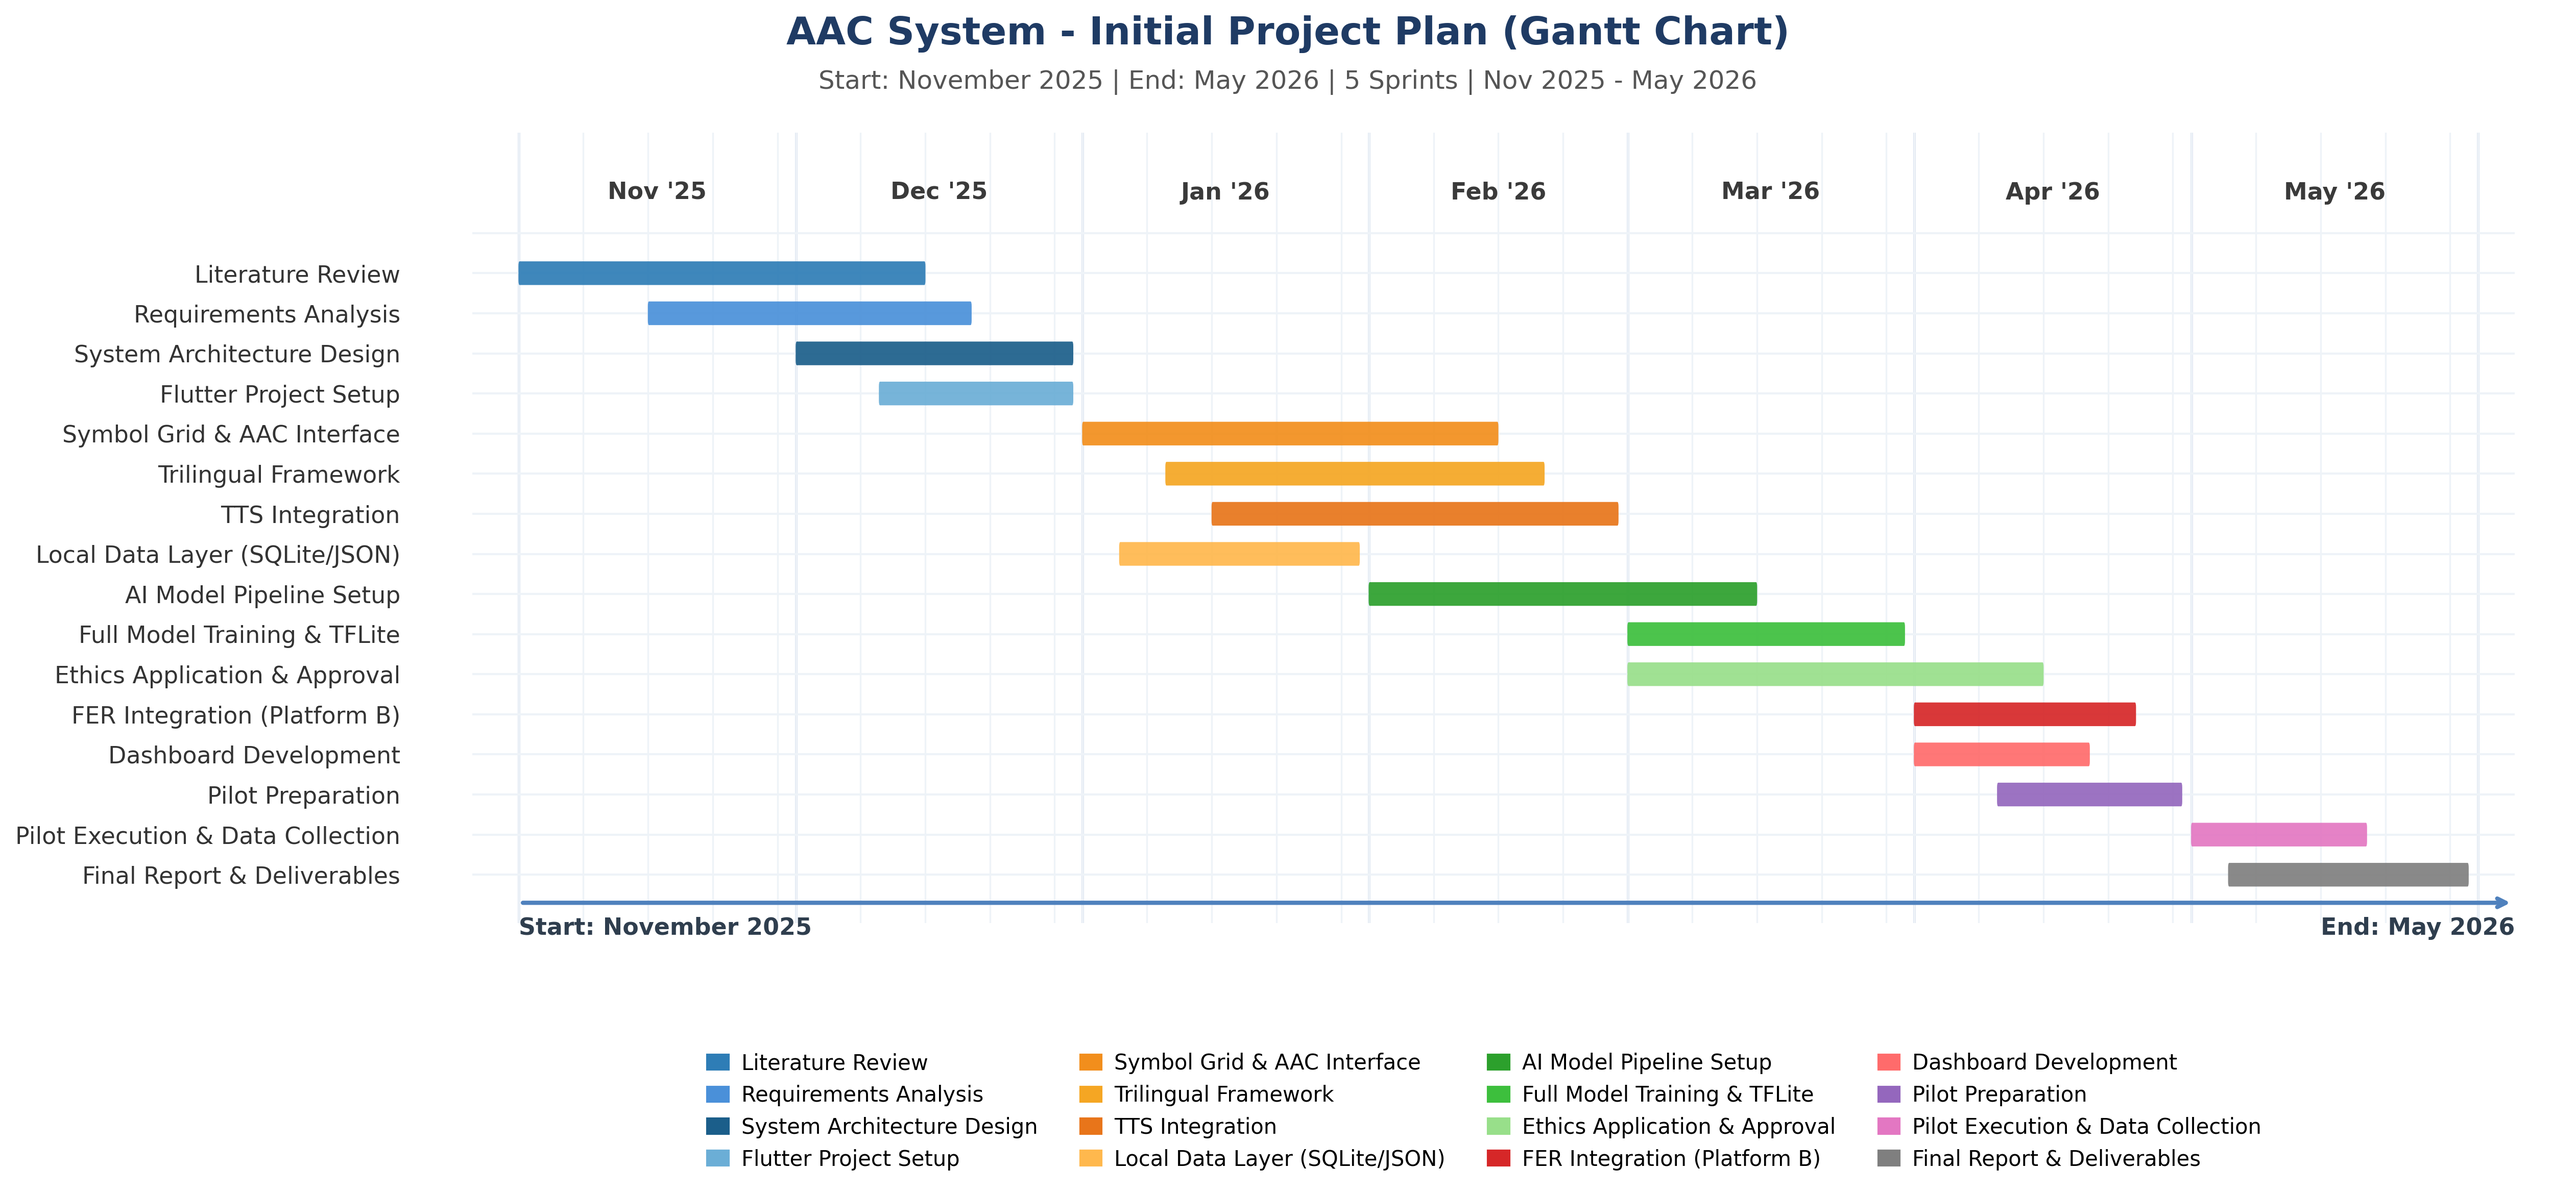
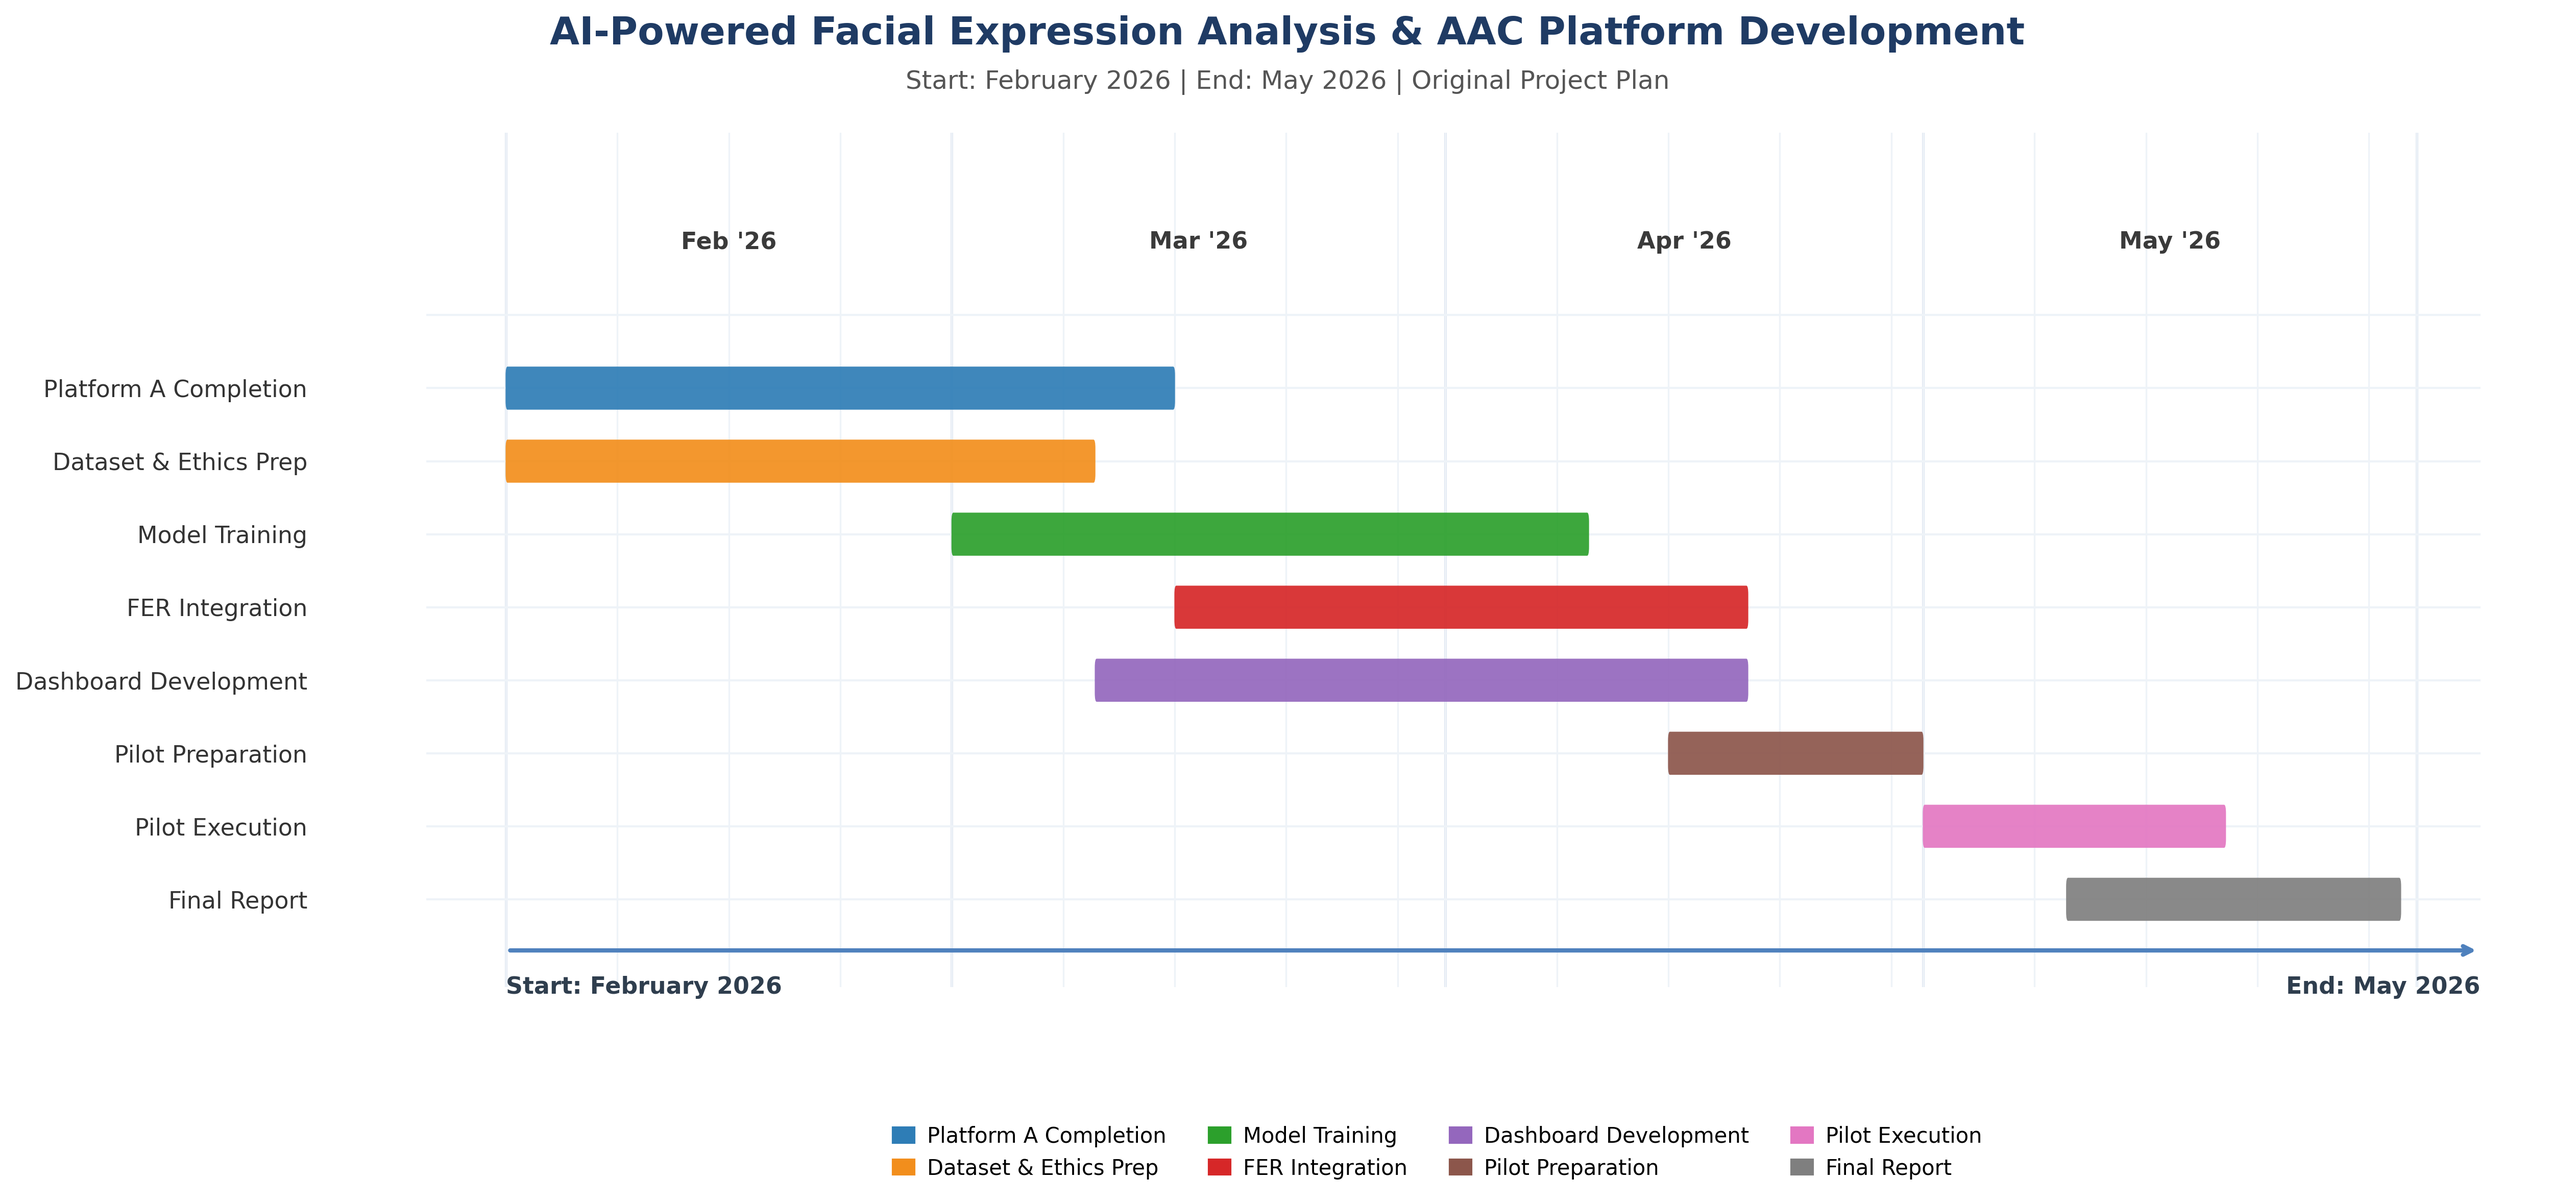
chart pngs completed

diff --git a/Esoft/gannt chart generator/ganntchartgen.py b/Esoft/gannt chart generator/ganntchartgen.py
@@ -117,28 +117,20 @@ def create_gantt(tasks_data, title, subtitle_extra, output_name, today_line=None
 # (Original plan from project proposal)
 # ═══════════════════════════════════════════
 initial_tasks = [
-    ("Literature Review",                "2025-11-01", "2025-12-15", "#2E7DB6"),
-    ("Requirements Analysis",            "2025-11-15", "2025-12-20", "#4A90D9"),
-    ("System Architecture Design",       "2025-12-01", "2025-12-31", "#1B5E8A"),
-    ("Flutter Project Setup",            "2025-12-10", "2025-12-31", "#6BAED6"),
-    ("Symbol Grid & AAC Interface",      "2026-01-01", "2026-02-15", "#F28E1C"),
-    ("Trilingual Framework",             "2026-01-10", "2026-02-20", "#F5A623"),
-    ("TTS Integration",                  "2026-01-15", "2026-02-28", "#E8751A"),
-    ("Local Data Layer (SQLite/JSON)",   "2026-01-05", "2026-01-31", "#FFB84D"),
-    ("AI Model Pipeline Setup",          "2026-02-01", "2026-03-15", "#2CA02C"),
-    ("Full Model Training & TFLite",     "2026-03-01", "2026-03-31", "#3DBF3D"),
-    ("Ethics Application & Approval",    "2026-03-01", "2026-04-15", "#98DF8A"),
-    ("FER Integration (Platform B)",     "2026-04-01", "2026-04-25", "#D62728"),
-    ("Dashboard Development",            "2026-04-01", "2026-04-20", "#FF6B6B"),
-    ("Pilot Preparation",                "2026-04-10", "2026-04-30", "#9467BD"),
-    ("Pilot Execution & Data Collection","2026-05-01", "2026-05-20", "#E377C2"),
-    ("Final Report & Deliverables",      "2026-05-05", "2026-05-31", "#7F7F7F"),
+    ("Platform A Completion",  "2026-02-01", "2026-03-15", "#2E7DB6"),
+    ("Dataset & Ethics Prep",  "2026-02-01", "2026-03-10", "#F28E1C"),
+    ("Model Training",         "2026-03-01", "2026-04-10", "#2CA02C"),
+    ("FER Integration",        "2026-03-15", "2026-04-20", "#D62728"),
+    ("Dashboard Development",  "2026-03-10", "2026-04-20", "#9467BD"),
+    ("Pilot Preparation",      "2026-04-15", "2026-05-01", "#8C564B"),
+    ("Pilot Execution",        "2026-05-01", "2026-05-20", "#E377C2"),
+    ("Final Report",           "2026-05-10", "2026-05-31", "#7F7F7F"),
 ]
 
 create_gantt(
     initial_tasks,
-    "AAC System - Initial Project Plan (Gantt Chart)",
-    "5 Sprints | Nov 2025 - May 2026",
+    "AI-Powered Facial Expression Analysis & AAC Platform Development",
+    "Original Project Plan",
     "gantt_initial.png"
 )
 
@@ -148,19 +140,19 @@ create_gantt(
 # (Revised plan with parallel scheduling)
 # ═══════════════════════════════════════════
 updated_tasks = [
-    ("Literature Review [Done]",              "2025-11-01", "2025-12-15", "#93C5E6"),
-    ("Requirements & Architecture [Done]",    "2025-11-15", "2025-12-31", "#93C5E6"),
-    ("Flutter Setup & Design Artefacts [Done]","2025-12-10", "2025-12-31", "#93C5E6"),
-    ("Symbol Grid & AAC Interface [Done]",    "2026-01-01", "2026-02-10", "#FFD699"),
-    ("TTS & Trilingual Framework [In Prog]",  "2026-01-10", "2026-03-31", "#FFF2CC"),
-    ("Local Data Layer [Done]",               "2026-01-05", "2026-01-25", "#FFD699"),
-    ("AI Pipeline & Preliminary Training [Done]","2026-01-15", "2026-02-28", "#B8E6B8"),
-    ("Karapitiya Field Exposure [Done]",      "2026-02-01", "2026-02-10", "#FFD699"),
-    ("Symbol Set Finalisation [In Prog]",     "2026-03-01", "2026-03-31", "#F28E1C"),
+    ("Literature Review [Done]",              "2025-11-01", "2025-12-15", "#2E7DB6"),
+    ("Requirements & Architecture [Done]",    "2025-11-15", "2025-12-31", "#2E7DB6"),
+    ("Flutter Setup & Design Artefacts [Done]","2025-12-10", "2025-12-31", "#2E7DB6"),
+    ("Symbol Grid & AAC Interface [Done]",    "2026-01-01", "2026-02-10", "#F28E1C"),
+    ("TTS & Trilingual Framework [In Prog]",  "2026-01-10", "2026-03-31", "#F28E1C"),
+    ("Local Data Layer [Done]",               "2026-01-05", "2026-01-25", "#F28E1C"),
+    ("AI Pipeline & Preliminary Training [Done]","2026-01-15", "2026-02-28", "#2CA02C"),
+    ("Karapitiya Field Exposure [Done]",      "2026-02-01", "2026-02-10", "#D62728"),
+    ("Symbol Set Finalisation [In Prog]",     "2026-03-01", "2026-03-31", "#9467BD"),
     ("Full Model Training & TFLite Export",   "2026-03-10", "2026-04-10", "#2CA02C"),
     ("Ethics Application & Approval",         "2026-03-01", "2026-04-15", "#9467BD"),
     ("FER Integration (Platform B)",          "2026-04-01", "2026-04-20", "#D62728"),
-    ("Dashboard Development",                 "2026-04-01", "2026-04-20", "#FF6B6B"),
+    ("Dashboard Development",                 "2026-04-01", "2026-04-20", "#8C564B"),
     ("Pilot Preparation & Recruitment",       "2026-04-10", "2026-04-30", "#8C564B"),
     ("Pilot Execution & Data Collection",     "2026-05-01", "2026-05-15", "#E377C2"),
     ("Final Report & Deliverables",           "2026-05-05", "2026-05-31", "#7F7F7F"),
@@ -168,8 +160,8 @@ updated_tasks = [
 
 create_gantt(
     updated_tasks,
-    "AAC System - Updated Project Plan (Gantt Chart)",
-    "Revised Sprint 3-5 with parallel scheduling | As of March 2026",
+    "AI-Powered Facial Expression Analysis & AAC Platform Development",
+    "Updated Project Plan | As of March 2026",
     "gantt_updated.png",
     today_line="2026-03-25"
 )
